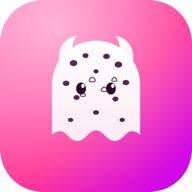
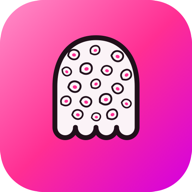
Fix flip double-firing, mirrored photos, mic quality, and capture button
- Double-tap-to-flip fired twice (touchend + native dblclick), cancelling
  itself out visually. Now uses a single pointerup-based detector.
- Photos were mirrored to match the selfie preview, which flips any text
  in shot; now saved in true orientation like the recorded videos.
- Add echoCancellation/noiseSuppression/autoGainControl to the mic
  constraints and explicit bitrates to MediaRecorder for cleaner audio.
- iOS/Android were intercepting long-presses on the capture button for
  their own callout/selection UI, breaking hold-to-record; disable that
  with touch-action/user-select on the button.
- Redesign the app icon: original leopard-print ghost silhouette (not
  Snapchat's own mark) with a bold outline, closer to the Snap+ look.

diff --git a/app.js b/app.js
@@ -109,11 +109,18 @@
   }
 
   // ---------- Camera ----------
+  const AUDIO_CONSTRAINTS = {
+    echoCancellation: true,
+    noiseSuppression: true,
+    autoGainControl: true,
+  };
+
   async function startCamera(preferredFacing) {
     stopStream();
     const constraintsList = [
-      { video: { facingMode: { exact: preferredFacing } }, audio: true },
-      { video: { facingMode: preferredFacing }, audio: true },
+      { video: { facingMode: { exact: preferredFacing } }, audio: AUDIO_CONSTRAINTS },
+      { video: { facingMode: preferredFacing }, audio: AUDIO_CONSTRAINTS },
+      { video: true, audio: AUDIO_CONSTRAINTS },
       { video: true, audio: true },
     ];
     let lastErr = null;
@@ -163,24 +170,25 @@
   }
 
   // ---------- Double tap to flip ----------
+  // Single pointerup-based detector (covers touch AND mouse) so a fast
+  // double-tap can't also fire a native "dblclick", which used to call
+  // flipCamera() twice in a row and cancel itself out.
   let lastTapTime = 0;
   let lastTapX = 0, lastTapY = 0;
-  videoWrap.addEventListener('touchend', (e) => {
+  videoWrap.addEventListener('pointerup', (e) => {
     if (isRecording) return;
     const now = Date.now();
-    const touch = e.changedTouches[0];
-    const dx = touch ? Math.abs(touch.clientX - lastTapX) : 0;
-    const dy = touch ? Math.abs(touch.clientY - lastTapY) : 0;
-    if (now - lastTapTime < 300 && dx < 40 && dy < 40) {
+    const dx = Math.abs(e.clientX - lastTapX);
+    const dy = Math.abs(e.clientY - lastTapY);
+    if (now - lastTapTime < 400 && dx < 50 && dy < 50) {
       flipCamera();
       lastTapTime = 0;
     } else {
       lastTapTime = now;
-      if (touch) { lastTapX = touch.clientX; lastTapY = touch.clientY; }
+      lastTapX = e.clientX;
+      lastTapY = e.clientY;
     }
   });
-  // Desktop fallback
-  videoWrap.addEventListener('dblclick', () => { if (!isRecording) flipCamera(); });
 
   flipBtn.addEventListener('click', () => { if (!isRecording) flipCamera(); });
   switchCameraBtn.addEventListener('click', () => { if (!isRecording) flipCamera(); });
@@ -229,13 +237,10 @@
     canvas.width = video.videoWidth;
     canvas.height = video.videoHeight;
     const ctx = canvas.getContext('2d');
-    ctx.save();
-    if (facing === 'user') {
-      ctx.translate(canvas.width, 0);
-      ctx.scale(-1, 1);
-    }
+    // Save the true (non-mirrored) orientation regardless of camera facing,
+    // matching how videos are recorded and how normal camera apps behave —
+    // only the live preview is mirrored for selfie comfort, not the file.
     ctx.drawImage(video, 0, 0, canvas.width, canvas.height);
-    ctx.restore();
 
     canvas.toBlob(async (blob) => {
       if (!blob) return;
@@ -264,13 +269,22 @@
   function startRecording() {
     if (!currentStream || isRecording) return;
     const mimeType = pickMimeType();
+    const options = {
+      ...(mimeType ? { mimeType } : {}),
+      audioBitsPerSecond: 128000,
+      videoBitsPerSecond: 4000000,
+    };
     try {
-      mediaRecorder = mimeType
-        ? new MediaRecorder(currentStream, { mimeType })
-        : new MediaRecorder(currentStream);
+      mediaRecorder = new MediaRecorder(currentStream, options);
     } catch (err) {
-      console.error('MediaRecorder init failed', err);
-      return;
+      try {
+        mediaRecorder = mimeType
+          ? new MediaRecorder(currentStream, { mimeType })
+          : new MediaRecorder(currentStream);
+      } catch (err2) {
+        console.error('MediaRecorder init failed', err2);
+        return;
+      }
     }
     recordedChunks = [];
     mediaRecorder.ondataavailable = (e) => {

diff --git a/style.css b/style.css
@@ -11,7 +11,11 @@
   color-scheme: dark;
 }
 
-* { box-sizing: border-box; -webkit-tap-highlight-color: transparent; }
+* {
+  box-sizing: border-box;
+  -webkit-tap-highlight-color: transparent;
+  -webkit-touch-callout: none;
+}
 
 html, body {
   margin: 0;
@@ -75,6 +79,9 @@ body {
   inset: 0;
   overflow: hidden;
   background: #000;
+  touch-action: manipulation;
+  -webkit-user-select: none;
+  user-select: none;
 }
 
 #video {
@@ -242,6 +249,9 @@ body {
   align-items: center;
   justify-content: center;
   flex-shrink: 0;
+  touch-action: none;
+  -webkit-user-select: none;
+  user-select: none;
 }
 
 #capture-ring {
